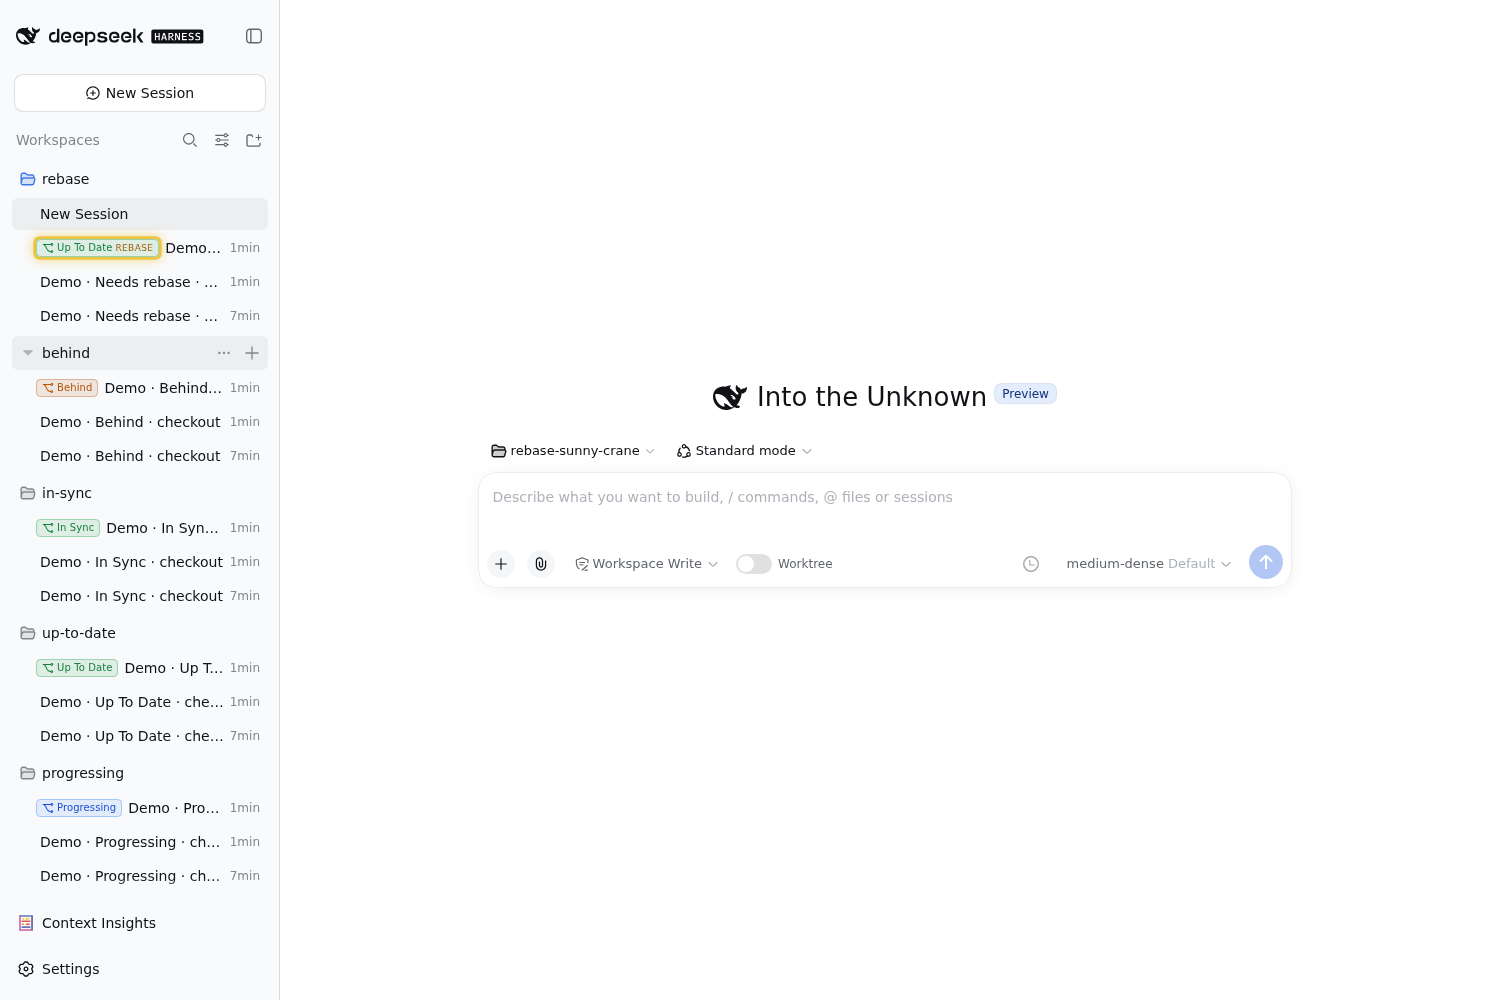
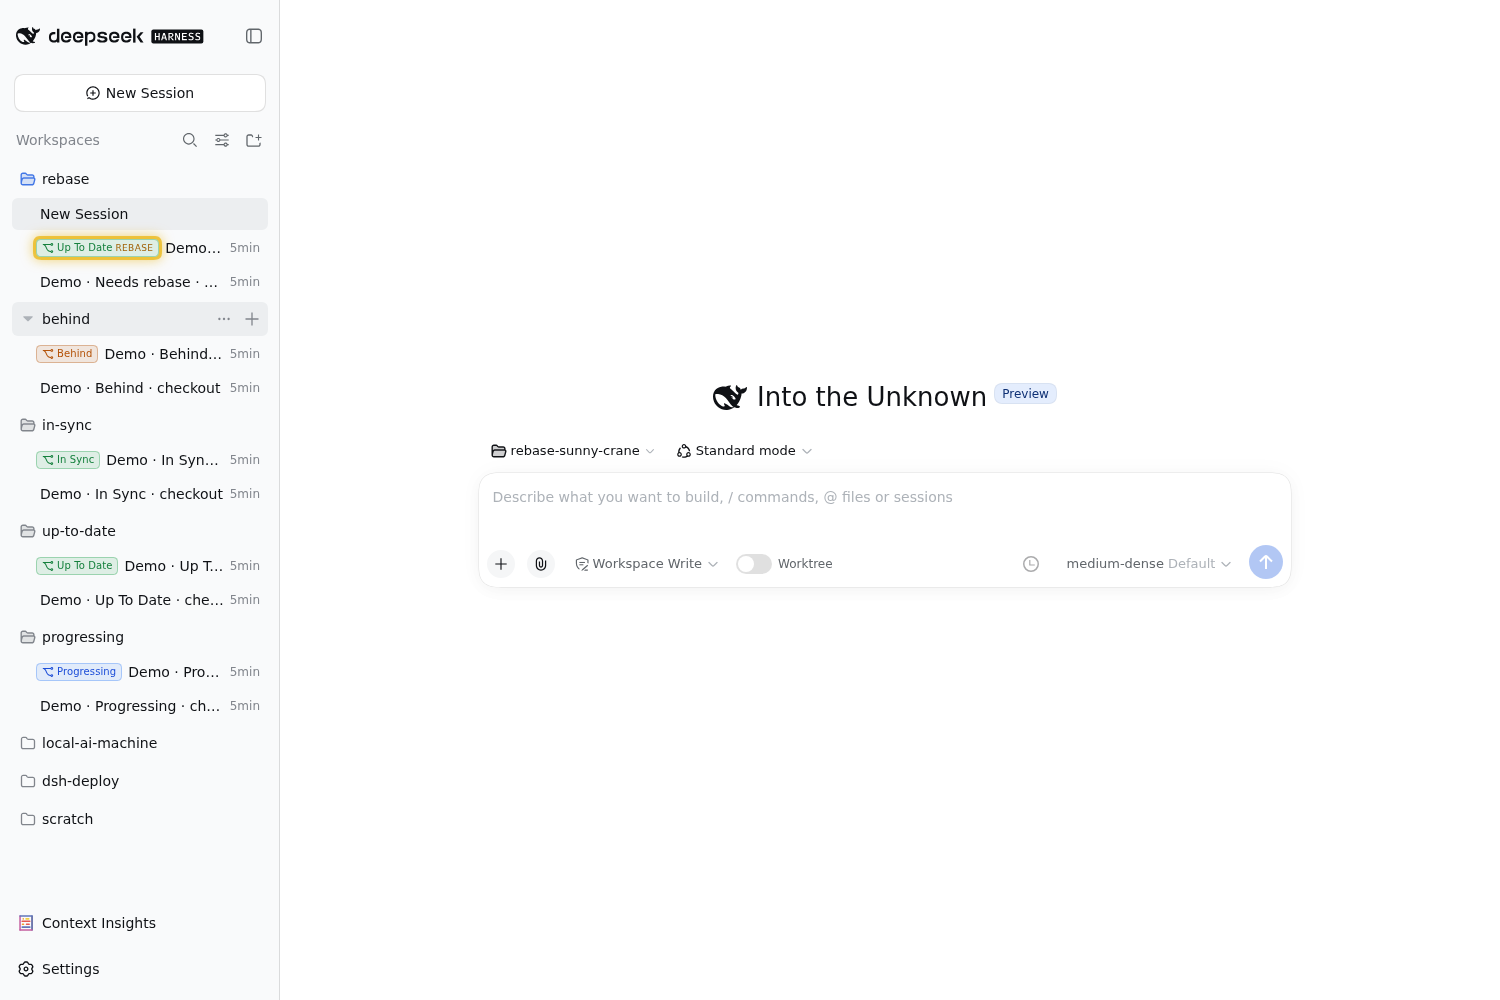
dsh-better-git-worktree: link the usage guide from the README, refresh the screenshot

Changed region(s): [[0.0, 0.31, 0.184, 0.899]]

diff --git a/.dsh/profiles/web/plugins/dsh-better-git-worktree/README.md b/.dsh/profiles/web/plugins/dsh-better-git-worktree/README.md
@@ -9,6 +9,11 @@ the sidebar browser integration) and drops everything else: there is no review
 checkpoint, no preview/apply, no delivery handoff. A worktree here is simply
 where the session works.
 
+**Usage guide:** [`docs/USAGE.md`](docs/USAGE.md) — surfaces, statuses,
+workflows, and a screenshot gallery.
+
+![Session list statuses](docs/screenshots/02-session-list-statuses.png)
+
 ## What it does
 
 - **Composer switch (blank sessions).** A `Worktree` toggle sits in the composer
